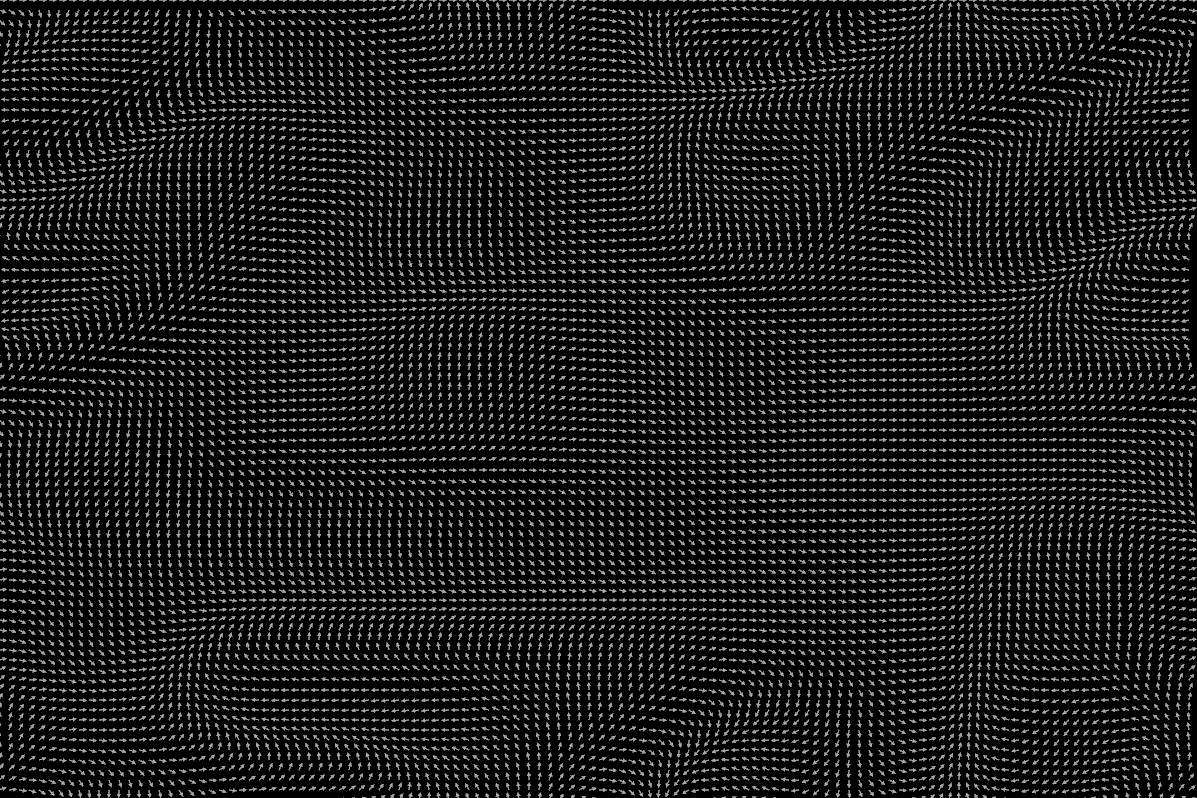
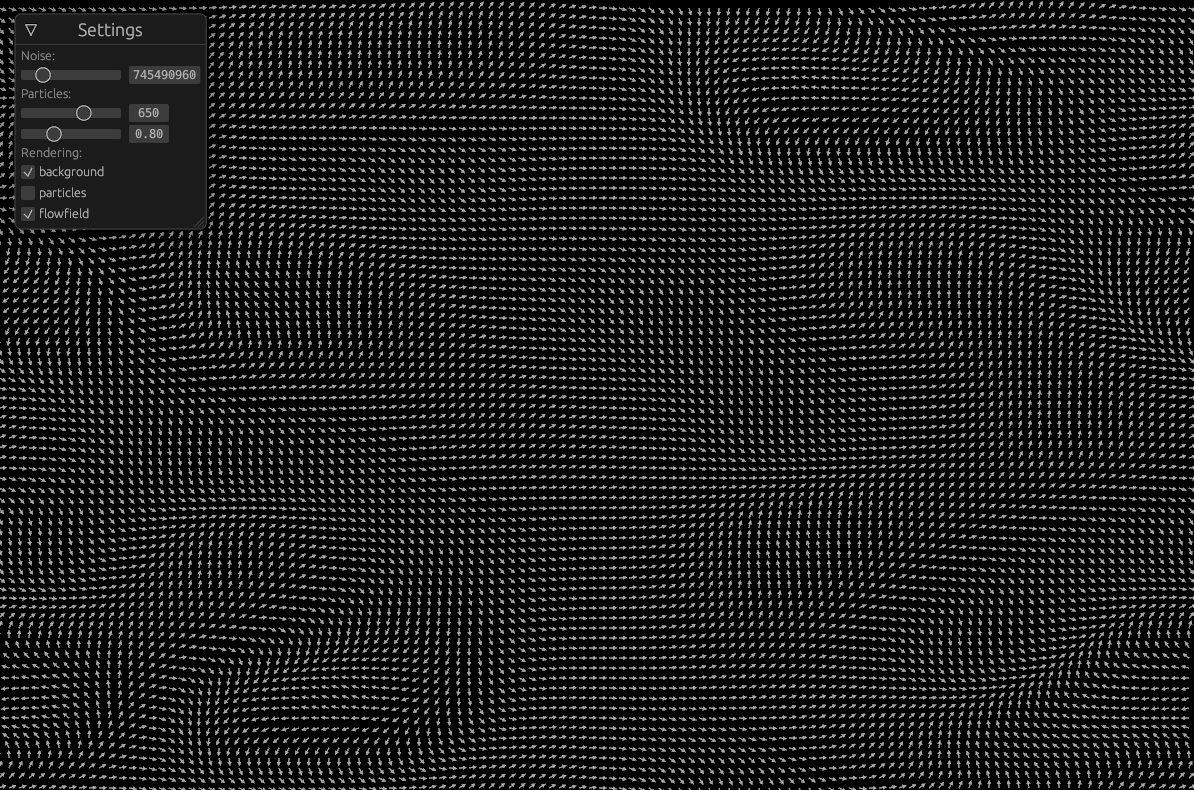
egui

diff --git a/src/main.rs b/src/main.rs
@@ -6,6 +6,8 @@ use nannou::{
     prelude::*,
 };
 
+use nannou_egui::{egui, Egui};
+
 const GRID_WIDTH: usize = 120;
 const GRID_HEIGHT: usize = 80;
 
@@ -14,23 +16,28 @@ const CELL_HEIGHT: usize = 10;
 
 const PADDING: usize = 0;
 
-const PARTICLES: usize = 400;
-
 const WINDOW_WIDTH: usize = GRID_WIDTH * CELL_WIDTH + PADDING * 2;
 const WINDOW_HEIGHT: usize = GRID_HEIGHT * CELL_HEIGHT + PADDING * 2;
 
 fn main() {
-    nannou::app(model)
-        .update(update)
-        .simple_window(view)
-        .size(WINDOW_WIDTH as u32, WINDOW_HEIGHT as u32)
-        .run();
+    nannou::app(model).update(update).run();
 }
 
 struct Model {
+    egui: Egui,
+    settings: Settings,
     map: NoiseMap,
     bounds: Rect,
     particles: Vec<Particle>,
+}
+
+struct Settings {
+    noise_seed: u32,
+    draw_background: bool,
+    draw_particles: bool,
+    draw_flowfield: bool,
+    particle_count: usize,
+    particle_size: f32,
 }
 
 struct Particle {
@@ -45,11 +52,63 @@ impl Model {
 
         Vec2::X.rotate(angle)
     }
+
+    fn generate_map(seed: u32, bounds: &Rect) -> NoiseMap {
+        let noise = Perlin::new().set_seed(seed);
+        let map = PlaneMapBuilder::new(&noise)
+            .set_size(bounds.w() as usize, bounds.h() as usize)
+            .set_x_bounds(-2., 2.)
+            .set_y_bounds(-2., 2.)
+            .set_is_seamless(true)
+            .build();
+
+        map
+    }
+
+    fn generate_particles(count: usize, bounds: &Rect) -> Vec<Particle> {
+        let particles = vec![0; count];
+        let particles = particles
+            .iter()
+            .map(|_| {
+                let origin = bounds.xy();
+
+                let x = random_range(0, bounds.w() as i32) as f32;
+                let y = random_range(0, bounds.h() as i32) as f32;
+
+                let x = Vec2::X * x;
+                let y = Vec2::Y * y;
+
+                Particle {
+                    position: origin + x + y,
+                    acceleration: Vec2::ZERO,
+                }
+            })
+            .collect();
+
+        particles
+    }
 }
 
 fn model(app: &App) -> Model {
-    let seed = random_range(0, u32::MAX);
-    let noise = Perlin::new().set_seed(seed);
+    let window_id = app
+        .new_window()
+        .view(view)
+        .size(WINDOW_WIDTH as u32, WINDOW_HEIGHT as u32)
+        .raw_event(raw_window_event)
+        .build()
+        .unwrap();
+
+    let window = app.window(window_id).unwrap();
+    let egui = Egui::from_window(&window);
+
+    let settings = Settings {
+        noise_seed: random_range(0, u32::MAX),
+        draw_background: true,
+        draw_particles: true,
+        draw_flowfield: false,
+        particle_count: 400,
+        particle_size: 1.0,
+    };
 
     let bounds = app
         .window_rect()
@@ -58,33 +117,12 @@ fn model(app: &App) -> Model {
         .pad_left(PADDING as f32)
         .pad_right(PADDING as f32);
 
-    let map = PlaneMapBuilder::new(&noise)
-        .set_size(bounds.w() as usize, bounds.h() as usize)
-        .set_x_bounds(-2., 2.)
-        .set_y_bounds(-2., 2.)
-        .set_is_seamless(true)
-        .build();
-
-    let particles = vec![0; PARTICLES];
-    let particles = particles
-        .iter()
-        .map(|_| {
-            let origin = bounds.xy();
-
-            let x = random_range(0, bounds.w() as i32) as f32;
-            let y = random_range(0, bounds.h() as i32) as f32;
-
-            let x = Vec2::X * x;
-            let y = Vec2::Y * y;
-
-            Particle {
-                position: origin + x + y,
-                acceleration: Vec2::ZERO,
-            }
-        })
-        .collect();
+    let map = Model::generate_map(settings.noise_seed, &bounds);
+    let particles = Model::generate_particles(settings.particle_count, &bounds);
 
     Model {
+        egui,
+        settings,
         map,
         bounds,
         particles,
@@ -92,6 +130,59 @@ fn model(app: &App) -> Model {
 }
 
 fn update(_app: &App, model: &mut Model, update: Update) {
+    // Update UI
+    let frame = model.egui.begin_frame();
+    let ctx = frame.context();
+
+    egui::Window::new("Settings").show(&ctx, |ui| {
+        ui.label("Noise:");
+        if ui
+            .add(egui::Slider::new(
+                &mut model.settings.noise_seed,
+                0..=u32::MAX,
+            ))
+            .changed()
+        {
+            model.map = Model::generate_map(model.settings.noise_seed, &model.bounds);
+        }
+
+        ui.label("Particles:");
+        if ui
+            .add(
+                egui::Slider::new(&mut model.settings.particle_count, 0..=1000)
+                    .integer()
+                    .text("count"),
+            )
+            .changed()
+        {
+            model.particles =
+                Model::generate_particles(model.settings.particle_count, &model.bounds);
+        }
+
+        ui.add(
+            egui::Slider::new(&mut model.settings.particle_size, 0.1..=100.0)
+                .text("size")
+                .logarithmic(true),
+        );
+
+        ui.label("Rendering:");
+        ui.add(egui::Checkbox::new(
+            &mut model.settings.draw_background,
+            "background",
+        ));
+        ui.add(egui::Checkbox::new(
+            &mut model.settings.draw_particles,
+            "particles",
+        ));
+        ui.add(egui::Checkbox::new(
+            &mut model.settings.draw_flowfield,
+            "flowfield",
+        ));
+    });
+
+    frame.end();
+
+    // Update particles
     let particles: Vec<Particle> = model
         .particles
         .iter()
@@ -130,40 +221,45 @@ fn update(_app: &App, model: &mut Model, update: Update) {
     model.particles = particles;
 }
 
+fn raw_window_event(_app: &App, model: &mut Model, event: &nannou::winit::event::WindowEvent) {
+    model.egui.handle_raw_event(event);
+}
+
 fn view(app: &App, model: &Model, frame: Frame) {
     let draw = app.draw();
-
-    // Reset background color
-    // draw.background().color(BLANCHEDALMOND);
-
-    // Render bounds
-    // draw.rect()
-    //     .xy(model.bounds.xy())
-    //     .wh(model.bounds.wh())
-    //     .color(PLUM);
-
     let origin = model.bounds.bottom_left();
 
-    // Render flow field arrows
-    // for x in -1..GRID_WIDTH as i32 + 1 {
-    //     for y in -1..GRID_HEIGHT as i32 + 1 {
-    //         let cell = Vec2::new(x as f32 * CELL_WIDTH as f32, y as f32 * CELL_HEIGHT as f32);
-    //         let direction = model.sample_direction(cell.x, cell.y);
+    if model.settings.draw_background {
+        draw.background().color(BLACK);
+    }
 
-    //         let start = origin + cell;
-    //         let end = start + direction * 8.0;
+    if model.settings.draw_flowfield {
+        for x in -1..GRID_WIDTH as i32 + 1 {
+            for y in -1..GRID_HEIGHT as i32 + 1 {
+                let cell = Vec2::new(x as f32 * CELL_WIDTH as f32, y as f32 * CELL_HEIGHT as f32);
+                let direction = model.sample_direction(cell.x, cell.y);
 
-    //         draw.arrow().start(start).end(end).color(DARKGRAY);
-    //     }
-    // }
+                let start = origin + cell;
+                let end = start + direction * 8.0;
 
-    // Render all particles
-    for particle in model.particles.iter() {
-        draw.ellipse()
-            .xy(origin + particle.position)
-            .w_h(4.0, 4.0)
-            .color(PLUM);
+                draw.arrow()
+                    .start(start)
+                    .end(end)
+                    .color(DARKGRAY)
+                    .stroke_weight(0.5);
+            }
+        }
+    }
+
+    if model.settings.draw_particles {
+        for particle in model.particles.iter() {
+            draw.ellipse()
+                .xy(origin + particle.position)
+                .w_h(model.settings.particle_size, model.settings.particle_size)
+                .color(PLUM);
+        }
     }
 
     draw.to_frame(app, &frame).unwrap();
+    model.egui.draw_to_frame(&frame).unwrap();
 }
